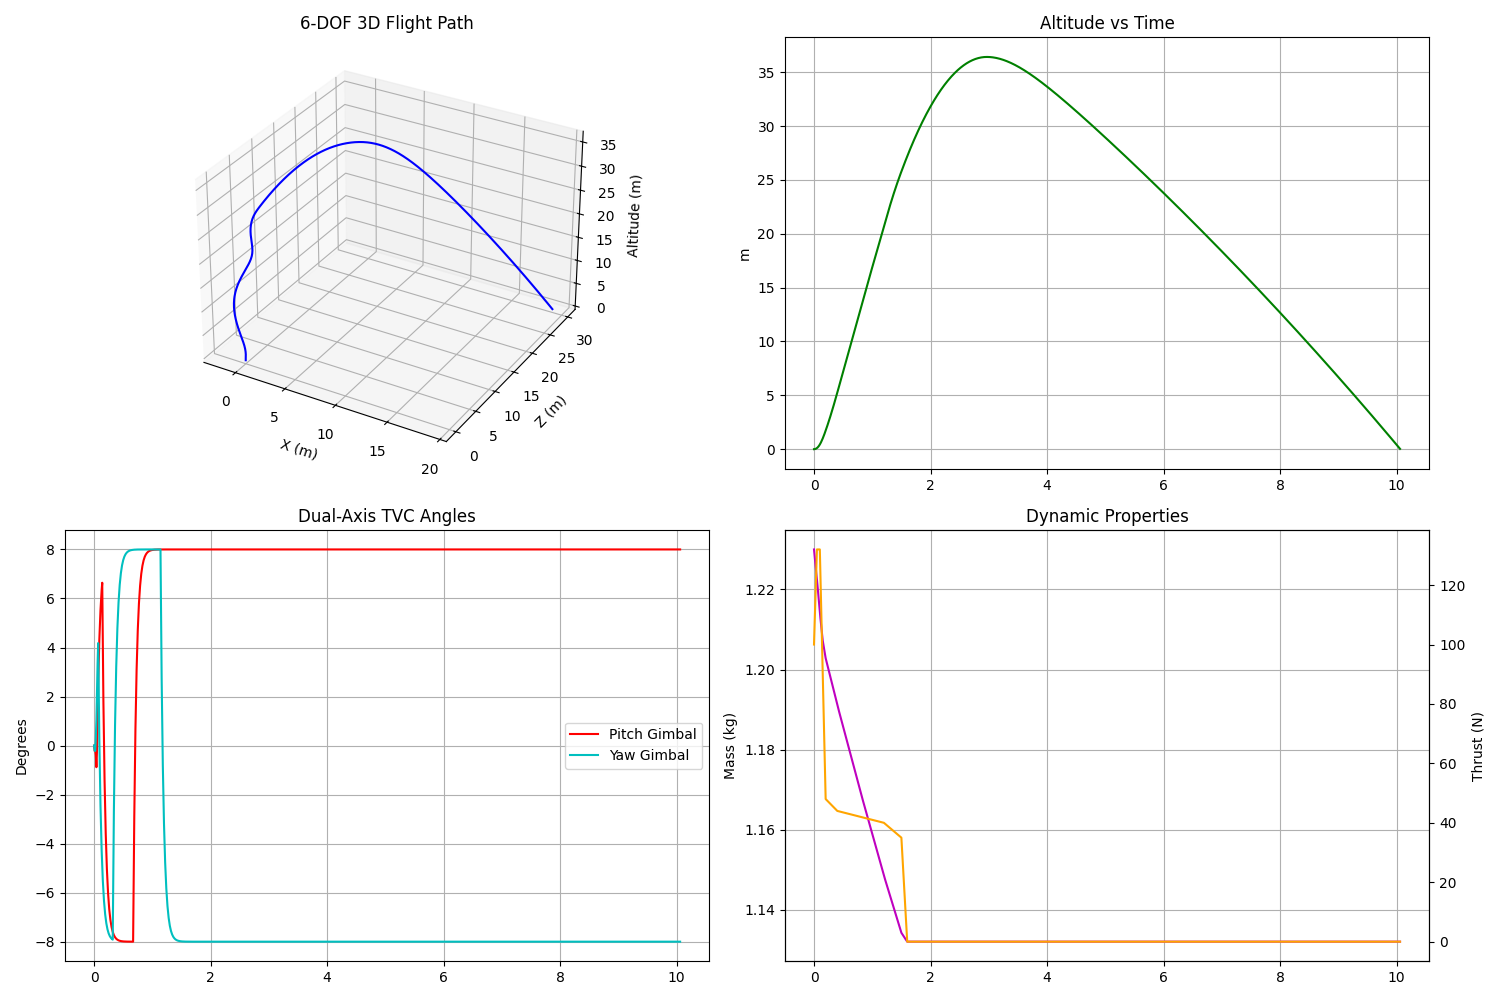
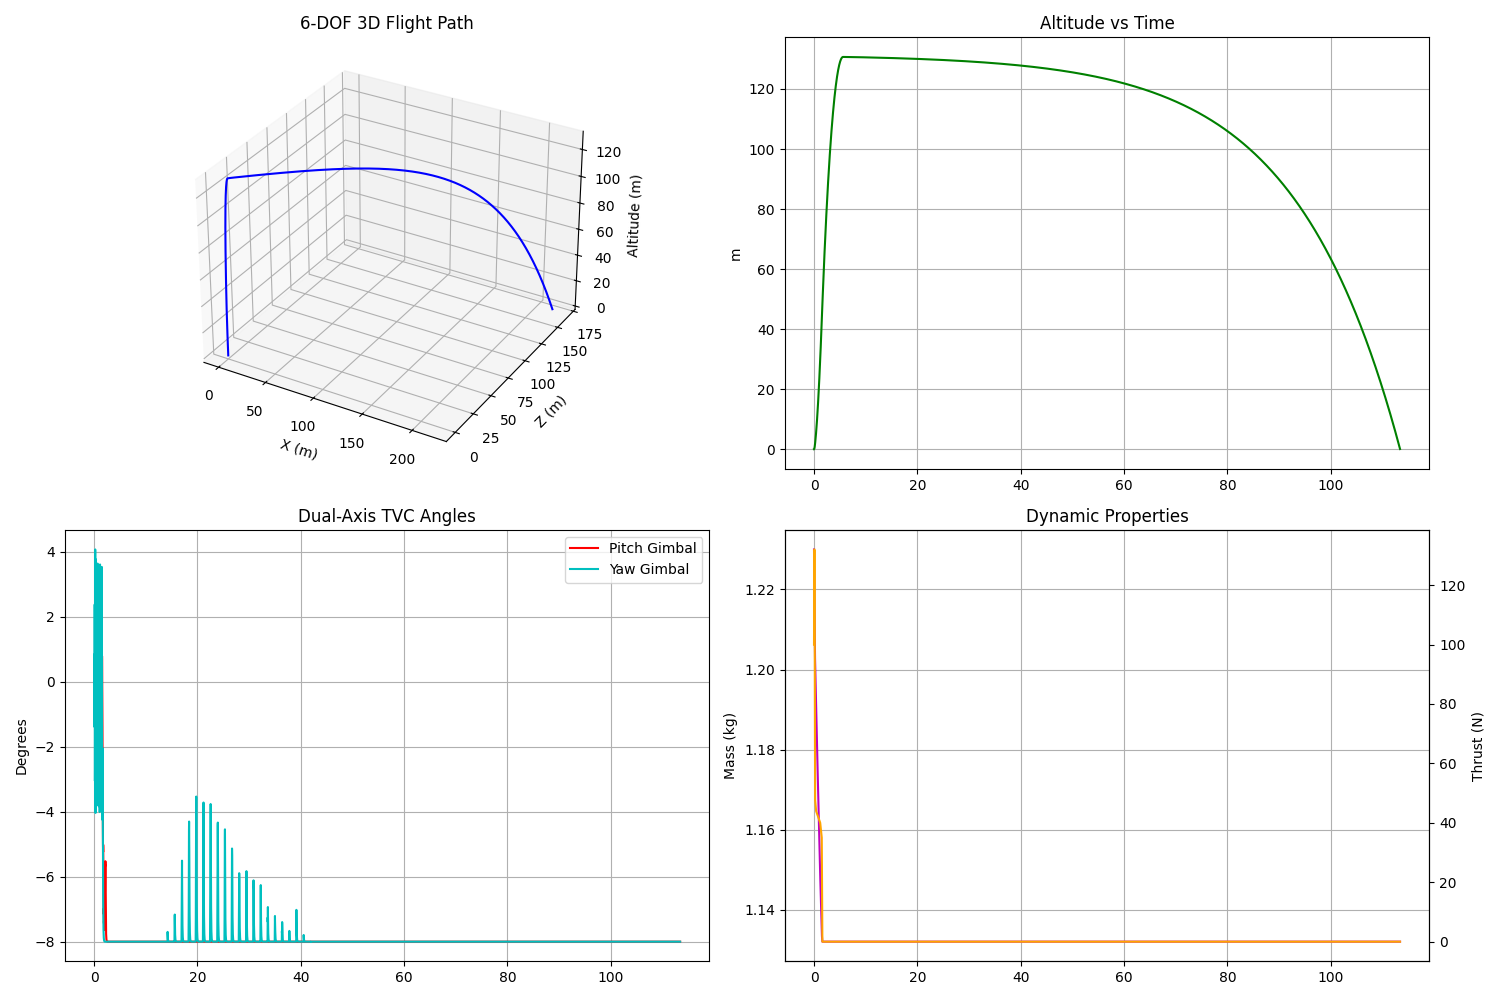
Error fix solving the 6-DOF Apogee Collapse

diff --git a/simulation/rocket_sim.py b/simulation/rocket_sim.py
@@ -130,9 +130,11 @@ def get_derivatives(t, state, est_error_vec, est_rate_vec, est_int_vec):
     thrust_mag, mass, cg, I_tensor = get_physics_properties(t)
     
     # 1. Control Logic (2-Axis TVC)
-    # target_gimbal provides restoring torque
-    target_gp = - (Kp_gain * est_error_vec[0] + Kd_gain * est_rate_vec[0] + Ki_gain * est_int_vec[0])
-    target_gy = - (Kp_gain * est_error_vec[2] + Kd_gain * est_rate_vec[2] + Ki_gain * est_int_vec[2])
+    # v_up_body contains the World-UP vector in the Body Frame [X, Y, Z]
+    # Pitch Gimbal (gp) -> Torques around X axis (fixes Z error)
+    target_gp = - (Kp_gain * est_error_vec[2] + Kd_gain * est_rate_vec[0] + Ki_gain * est_int_vec[2])
+    # Yaw Gimbal (gy) -> Torques around Z axis (fixes X error)
+    target_gy = (Kp_gain * est_error_vec[0] + Kd_gain * est_rate_vec[2] + Ki_gain * est_int_vec[0])
     
     target_gp = np.clip(target_gp, -MAX_GIMBAL_ANGLE_RAD, MAX_GIMBAL_ANGLE_RAD)
     target_gy = np.clip(target_gy, -MAX_GIMBAL_ANGLE_RAD, MAX_GIMBAL_ANGLE_RAD)
@@ -142,12 +144,9 @@ def get_derivatives(t, state, est_error_vec, est_rate_vec, est_int_vec):
     
     # 2. Forces (Body Frame)
     # Body-Y is longitudinal.
-    # Gimbal Pitch (gp) rotates thrust around X-axis.
-    # Gimbal Yaw (gy) rotates thrust around Z-axis.
-    # Force vector in body frame:
-    f_thrust_body = np.array([thrust_mag * math.sin(gimbal[0]), 
+    f_thrust_body = np.array([-thrust_mag * math.sin(gimbal[1]), 
                               thrust_mag * math.cos(gimbal[0]) * math.cos(gimbal[1]),
-                              thrust_mag * math.sin(gimbal[1])])
+                              -thrust_mag * math.sin(gimbal[0])])
     
     # Wind and Relative Velocity
     wind_world = surface_wind + np.array([0, wind_shear_gradient * pos[1], 0])
